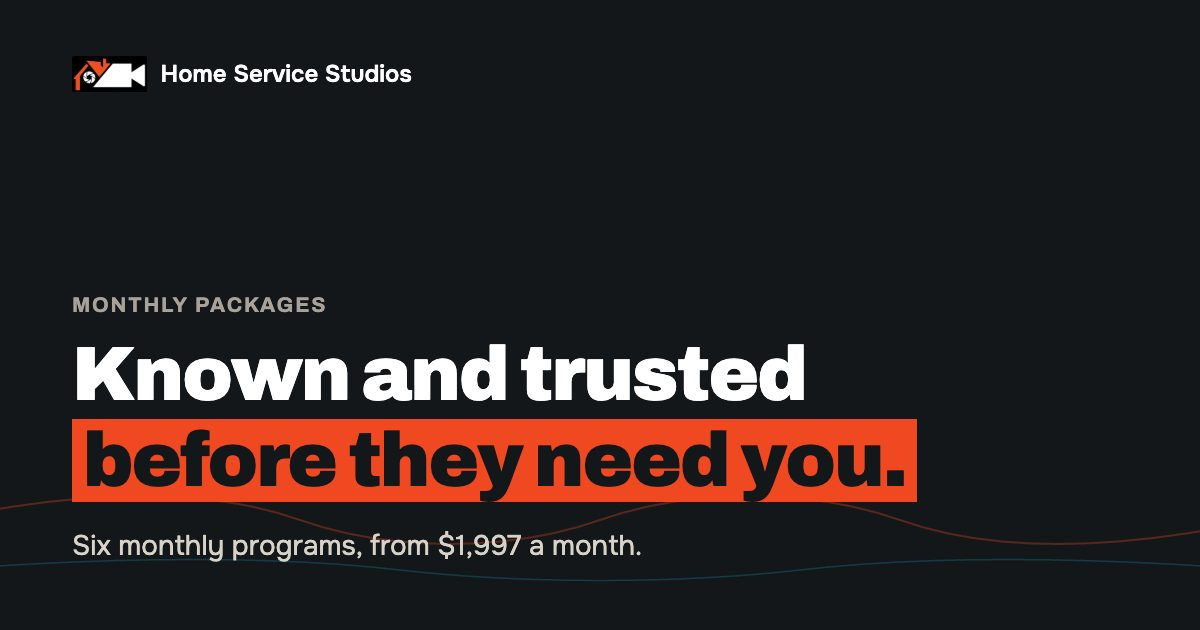
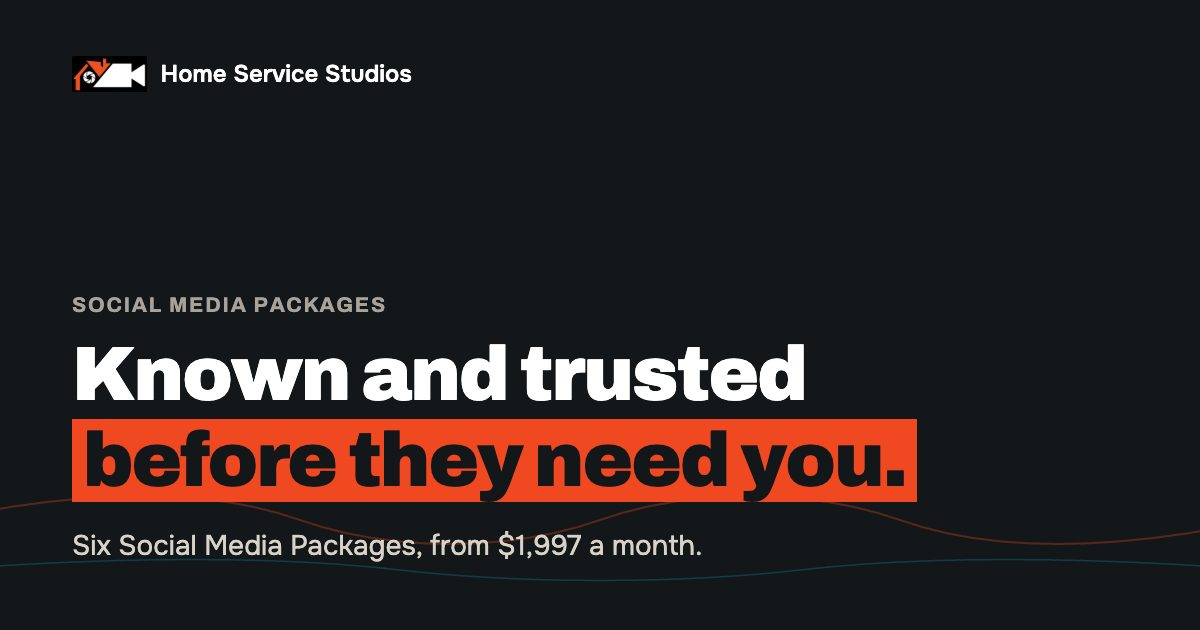
Call the offering "Social Media Packages" everywhere
Release 8, I (owner: not "monthly packages", "monthly programs" or
"retainers"; the name is Social Media Packages, a product name).

- What We Do block 01: "Social media monthly packages" -> "Social Media
  Packages".
- Case cards and case page tags "Monthly program" -> "Social Media
  Packages" (A1, Bee Right There, iComfort; All Heart keeps "Campaign");
  Bee Right There and iComfort role chips likewise.
- /packages: eyebrow "Monthly packages · Home Service Studios" -> "Social
  Media Packages · Home Service Studios"; <title> and page title "Monthly
  Video Packages for Home Services" -> "Social Media Packages for Home
  Services"; meta description "Monthly short-form video packages from Home
  Service Studios: ..." -> "Social Media Packages from Home Service Studios:
  ...".
- Doors band (homepage and /team): eyebrow "Retainers" -> "Social Media
  Packages"; headings "Hire us monthly" / "Put them on your account" -> "See
  the packages"; copy -> "Six packages, with plain terms. We are honest
  about what consistent content does and does not do."; link "See the
  packages" -> "Compare the packages" so it does not repeat the heading.
- /contact: "the monthly programs are priced in public" -> "our Social
  Media Packages are priced in public"; the budget hint "which programs are
  worth talking about" -> "which packages ...".
- Reassurance line and the (booking-only) lede: "and whether a monthly
  program makes sense." -> "...your current content. Then we'll see if one
[…]

Changed region(s): [[0.0925, 0.8444, 0.5858, 0.9048], [0.0617, 0.4524, 0.3392, 0.5127]]

diff --git a/build_site.py b/build_site.py
@@ -50,8 +50,8 @@ FORM_ACTION = f"https://formsubmit.co/{FORM_TO}"
 BOOK_URL = ""          # e.g. https://calendar.app.google/xxxxxxxx
 BOOKED = bool(BOOK_URL)
 
-REASSURE = ("Twenty minutes on Google Meet. We'll look at your market, your current content, "
-            "and whether a monthly program makes sense.")
+REASSURE = ("Twenty minutes on Google Meet. We'll look at your market and your current content. "
+            "Then we'll see if one of our Social Media Packages fits.")
 
 # what the form path actually promises, which is not a call yet.
 #
@@ -2665,7 +2665,7 @@ BRT_REEL_LABEL = f"{BRT_REEL_SHORT} views on Bee Right There&#39;s top reel, on 
 
 CASES = [
     dict(id="a1", slug="a1-air-conditioning", name="A1 Air Conditioning", og="og-a1.jpg",
-         vertical="Home services", tag="Monthly program",
+         vertical="Home services", tag="Social Media Packages",
          problem="A crowded market where every company looks the same.",
          card_metric="2.26M", card_line="views on seven reels, in a market of one million people",
          where="A1 Air Conditioning &middot; Tucson, AZ",
@@ -2673,7 +2673,7 @@ CASES = [
               "views, roughly 2.26 million views in a market of one million people."),
     dict(id="beerightthere", slug="bee-right-there", name="Bee Right There",
          full="Bee Right There Heating &amp; Air", og="og-bee-right-there.jpg",
-         vertical="Home services", tag="Monthly program",
+         vertical="Home services", tag="Social Media Packages",
          problem="Posting every day and reaching almost no one.",
          card_metric="3.8x", card_line="the views in three weeks, on 24% more posts",
          where="Bee Right There Heating &amp; Air &middot; Atascadero, CA",
@@ -2682,7 +2682,7 @@ CASES = [
               f"{BRT_REEL_LONG} views."),
     dict(id="icomfort", slug="icomfort", name="iComfort",
          full="iComfort Heating and Air Conditioning", og="og-icomfort.jpg",
-         vertical="Home services", tag="Monthly program",
+         vertical="Home services", tag="Social Media Packages",
          problem="Twenty years in business and a feed that looked quiet.",
          card_metric="6.8x", card_line="the followers in under a year, all organic",
          card_now="3,127 followers today",
@@ -2857,7 +2857,7 @@ CASE_PAGE = {
 {A1_REELS}
   </div>""", ops=""),
     "beerightthere": dict(
-        kind="Reach", roles=["Monthly program", "Short form"],
+        kind="Reach", roles=["Social Media Packages", "Short form"],
         tag="Nearly 4x the views in three weeks.",
         lede="Bee Right There Heating &amp; Air was already posting almost every day from "
              "Atascadero, on California&#39;s Central Coast. Hardly anyone was watching. We "
@@ -2888,7 +2888,7 @@ CASE_PAGE = {
                "2024; reel views as reported in early 2025. Top reel&#39;s current views from "
                "Instagram, 6 Oct 2026. Atascadero population: 29,773 (2020 Census)."),
     "icomfort": dict(
-        kind="Audience", roles=["Monthly program", "Short form"],
+        kind="Audience", roles=["Social Media Packages", "Short form"],
         tag="290 to 1,970 followers, no ads.",
         lede="iComfort Heating and Air Conditioning has served the San Fernando Valley since 2004. "
              "In March 2024 their Instagram had 290 followers and looked quiet. A year of daily "
@@ -3067,7 +3067,7 @@ html = f"""<title>Selected work, Home Service Studios</title>
   </div>
   <div class="ctarow">
     {book("Project%20enquiry", "Start a project")}
-    <a class="cta ghost" href="/packages/">Monthly packages</a>
+    <a class="cta ghost" href="/packages/">Social Media Packages</a>
   </div>
   {reassure("work")}
 </div></div>
@@ -3215,7 +3215,7 @@ ONBOARDING = "\n".join(
 ONBOARDING_NOTE = ("Timing depends on our production calendar when you sign up; we confirm "
                    "your dates on the kickoff call.")
 
-PACKAGES_HTML = f"""<title>Monthly content packages</title>
+PACKAGES_HTML = f"""<title>Social Media Packages</title>
 {FONT_CSS}
 {CSS}
 <a class="skip" href="#main">Skip to content</a>
@@ -3223,13 +3223,13 @@ PACKAGES_HTML = f"""<title>Monthly content packages</title>
 
 <main id="main">
 <div class="hero hero-dark">{SPLAT_SVG}<div class="wrap">
-  <p class="eyebrow">Monthly packages &middot; Home Service Studios</p>
+  <p class="eyebrow">Social Media Packages &middot; Home Service Studios</p>
   <h1 class="display">Known and trusted <span class="hl">before they need you.</span></h1>
   <p class="sub">Homeowners call the company they already recognize, and that recognition is built
   over months, not in a month. <strong>It only works if it actually runs</strong>, and these
   packages make it run without landing on your desk.</p>
   <div class="ctarow">
-    {book("Monthly%20packages")}
+    {book("Social%20Media%20Packages")}
     <a class="cta ghost" href="/our-work/">See the work first</a>
   </div>
   {reassure("packages")}
@@ -3329,7 +3329,7 @@ PACKAGES_HTML = f"""<title>Monthly content packages</title>
   </div>
 
   <div class="ctarow">
-    {book("Monthly%20packages")}
+    {book("Social%20Media%20Packages")}
   </div>
   {reassure("packages-terms")}
   <p class="ctanote" style="margin-top:var(--s3);">Questions on terms?
@@ -3515,7 +3515,7 @@ HOME_HTML = f"""<title>Home Service Studios</title>
 
   <div class="wwd-block">
     <p class="wwd-num" aria-hidden="true">01</p>
-    <h3 class="wwd-title">Social media monthly packages</h3>
+    <h3 class="wwd-title">Social Media Packages</h3>
     <p class="wwd-copy">A reel every weekday and graphics every weekend, planned and posted for
     you. Here is what that looks like on three client accounts.</p>
     <div class="ctarow">
@@ -3579,11 +3579,11 @@ HOME_HTML = f"""<title>Home Service Studios</title>
       <span class="go">Open the portfolio &rarr;</span>
     </a>
     <a class="door" href="/packages/">
-      <span class="tier">Retainers</span>
-      <h3>Hire us monthly</h3>
-      <p>{PROGRAMS_WORD.capitalize()} programs, plain terms, and an honest account of what
+      <span class="tier">Social Media Packages</span>
+      <h3>See the packages</h3>
+      <p>{PROGRAMS_WORD.capitalize()} packages, with plain terms. We are honest about what
       consistent content does and does not do.</p>
-      <span class="go">See the packages &rarr;</span>
+      <span class="go">Compare the packages &rarr;</span>
     </a>
   </div>
 </div></section>
@@ -3689,7 +3689,7 @@ def enquiry_form():
 
   <fieldset class="fld budgets">
     <legend>Roughly what you can spend a month</legend>
-    <span class="fhint">Nobody is held to this. It tells us which programs are
+    <span class="fhint">Nobody is held to this. It tells us which packages are
     worth talking about.</span>
     <div class="budgetrow">{budgets}</div>
     <span class="ferr" id="e-budget" role="alert"></span>
@@ -3723,8 +3723,8 @@ if BOOKED:
         '<section><div class="wrap">'
         '<div class="sec-head"><p class="eyebrow">Booking</p>'
         '<h2 class="display">Or pick a time now</h2>'
-        '<p class="lede">Twenty minutes on Google Meet. We look at your market, your current '
-        'content, and whether a monthly program makes sense. No deck, no pitch.</p></div>'
+        '<p class="lede">Twenty minutes on Google Meet. We look at your market and your current '
+        'content. Then we see if one of our Social Media Packages fits. No deck, no pitch.</p></div>'
         '<div class="schedwrap"><iframe src="' + BOOK_URL + '" title="Book a call with '
         'Home Service Studios" loading="lazy" style="border:0" width="100%" height="640" '
         'frameborder="0"></iframe></div>'
@@ -3747,7 +3747,7 @@ CONTACT_HTML = f"""<title>Contact</title>
   <h1 class="display">Talk <span class="hl">to us.</span></h1>
   <p class="sub">Tell us your city and your trade and we will come back with something specific
   to your market, not a brochure. If you would rather look first, the work is on the
-  <a href="/our-work/">case studies</a> and the monthly programs are
+  <a href="/our-work/">case studies</a> and our Social Media Packages are
   <a href="/packages/">priced in public</a>. You can also
   <a href="mailto:{EMAIL}">email us</a> directly, good for scope, budgets or anything with
   attachments, but the form below gets you a faster, more specific reply.</p>
@@ -3911,11 +3911,11 @@ TEAM_HTML = f"""<title>Meet the team</title>
       <span class="go">Open the portfolio &rarr;</span>
     </a>
     <a class="door" href="/packages/">
-      <span class="tier">Retainers</span>
-      <h3>Put them on your account</h3>
-      <p>{PROGRAMS_WORD.capitalize()} monthly programs, plain terms, and an honest account of
-      what consistent content does and does not do.</p>
-      <span class="go">See the packages &rarr;</span>
+      <span class="tier">Social Media Packages</span>
+      <h3>See the packages</h3>
+      <p>{PROGRAMS_WORD.capitalize()} packages, with plain terms. We are honest about what
+      consistent content does and does not do.</p>
+      <span class="go">Compare the packages &rarr;</span>
     </a>
   </div>
 </div></section>
@@ -4032,7 +4032,7 @@ NOT_FOUND_HTML = f"""<title>Page not found</title>
   the packages and a way to reach us are all one click away.</p>
   <div class="ctarow">
     <a class="cta" href="/our-work/">See the work</a>
-    <a class="cta ghost" href="/packages/">Monthly packages</a>
+    <a class="cta ghost" href="/packages/">Social Media Packages</a>
     <a class="cta ghost" href="/contact/">Contact us</a>
   </div>
 </div></div>
@@ -4084,7 +4084,7 @@ JSON_LD = (
     '"areaServed":"US","priceRange":"$$$",'
     '"description":"Video production for home service brands and creators.",'
     '"hasOfferCatalog":{"@type":"OfferCatalog",'
-    '"name":"Monthly video programs","itemListElement":[' + _OFFERS + ']}}'
+    '"name":"Social Media Packages","itemListElement":[' + _OFFERS + ']}}'
     '</script>'
 )
 
@@ -4174,11 +4174,11 @@ if MODE == "web":
                    url=f"{SITE}/our-work/", extra_head=WORK_LD)
 
     packages = validate(PACKAGES_HTML, "packages")
-    D2 = ("Monthly short-form video packages from Home Service Studios: a reel every "
+    D2 = ("Social Media Packages from Home Service Studios: a reel every "
           "weekday, graphics every weekend and stories across your platforms, from "
           f"{money(PRICE_MIN)} a month.")
     n2 = write_web(packages, f"{S}/deploy/packages/index.html",
-                   title="Monthly Video Packages for Home Services | Home Service Studios",
+                   title="Social Media Packages for Home Services | Home Service Studios",
                    desc=D2, og_image=f"{SITE}/og/og-packages.jpg",
                    url=f"{SITE}/packages/")
 
@@ -4231,7 +4231,7 @@ if MODE == "web":
 
     nf = validate(NOT_FOUND_HTML, "404")
     write_web(nf, f"{S}/deploy/404.html", title="Page not found | Home Service Studios",
-              desc="This page is not here. See the work, the monthly packages, or contact "
+              desc="This page is not here. See the work, the Social Media Packages, or contact "
                    "Home Service Studios.",
               og_image=f"{SITE}/our-work/a/og-cover.jpg", url=f"{SITE}/404.html", noindex=True)
 

diff --git a/CLAUDE.md b/CLAUDE.md
@@ -51,7 +51,7 @@ authentication for homeservicestudios.com before assuming it's a code bug. Don't
 the same way without the same kind of explicit go ahead — it's a bigger, separate move (Vercel
 routing, canonical/SEO URLs) than the contact address was.
 
-Live: **/** (homepage), **/our-work** (portfolio), **/packages** (monthly retainers) and
+Live: **/** (homepage), **/our-work** (portfolio), **/packages** (Social Media Packages) and
 **/team** (roster, currently placeholder photos and copy for Yoni to fill in).
 `deploy/index.html` lands at the project root, so Vercel serves it at the apex.
 
@@ -346,6 +346,13 @@ Short sentences. The owner dislikes run-on sentences (2026-10-06): one idea per 
 anything joined by a semicolon or a chain of commas. (First applied to the Bee Right There case
 page, R22.)
 
+**The offering is called "Social Media Packages"** (title case, a product name; release 8, owner).
+Never "monthly packages", "monthly programs" or "retainers" in copy, tags, chips, eyebrows,
+headings, buttons, meta, OG cards or JSON-LD. "A Social Media Package" and "the packages" read
+naturally in a sentence. Billing language stays as it is: "month to month", "per month", "a
+month", "monthly ad budget", "first month", the prices. The nav label "Packages" stays for now.
+After a change, `grep -ri "monthly package\|monthly program\|retainer" deploy/` must show nothing.
+
 ## The two engines
 
 The site sells two mechanisms and must never collapse them into one:
@@ -367,7 +374,7 @@ three things at every tier" block.
 
 **Short form does not persist and the site must never say it does.** Individual posts decay;
 what accumulates is familiarity, and familiarity fades too once you stop. That decay is the
-argument *for* the retainer, not something to hide: if posts lasted, a client would buy one batch
+argument *for* the packages, not something to hide: if posts lasted, a client would buy one batch
 and leave. Only engine 2 genuinely does not expire, because someone searching finds a three year
 old video, so **"does not expire" lives in the Engine 02 panel and nowhere else**. As of
 2026-10-06 that panel states the mechanism only ("a video made for search keeps getting found years
@@ -378,9 +385,9 @@ library that keeps working" inside the block about what *short form* does, which
 engines collapsing back into one. It is now "Proof you are still around", which is a real short
 form benefit: the volume is what someone sees when they look you up before calling.
 
-**"Intent rather than attention" is the shared phrase**; it appears on `/packages` (Engine 02) and
-in the homepage's monthly packages lede, so the pages describe the same mechanism in the same
-words. Engine 2 is also what Platinum adds on top of Gold, so do not cut it.
+**"Intent rather than attention" is the shared phrase**; it appears on `/packages` (Engine 02)
+(and was in the homepage packages lede until release 8 removed that section), so the pages
+describe the same mechanism in the same words. Engine 2 is also what Platinum adds on top of Gold, so do not cut it.
 
 Never pin the pitch to one buying trigger. An earlier draft said recognition matters "when the
 unit dies", which pigeonholed the whole site as HVAC and technician facing. Name several triggers
